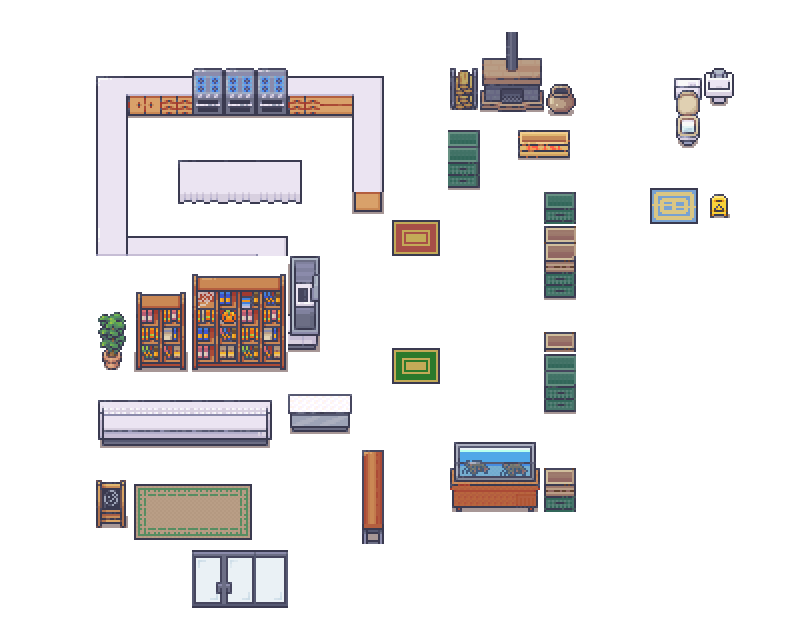
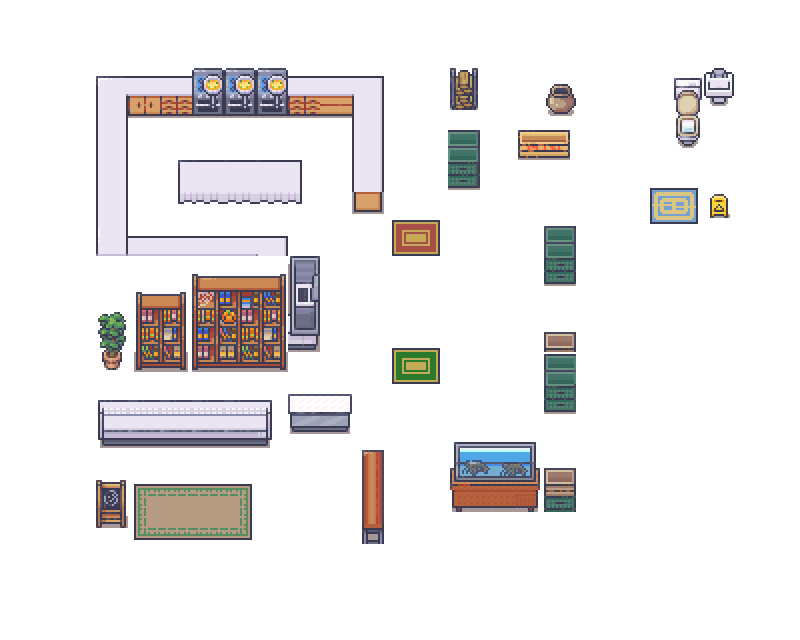
foodsource floating animation, modular for only adding in the tmx!

diff --git a/assets/objects.tsx b/assets/objects.tsx
@@ -1,7 +1,25 @@
 <?xml version="1.0" encoding="UTF-8"?>
-<tileset version="1.10" tiledversion="1.10.2" name="objects" tilewidth="32" tileheight="64" tilecount="1" columns="0">
+<tileset version="1.10" tiledversion="1.10.2" name="objects" tilewidth="96" tileheight="96" tilecount="7" columns="0">
  <grid orientation="orthogonal" width="1" height="1"/>
  <tile id="0" type="stove">
   <image width="32" height="64" source="stations/stove-on.png"/>
+ </tile>
+ <tile id="1" type="chopping_board">
+  <image width="96" height="32" source="stations/chopping_board.png"/>
+ </tile>
+ <tile id="2" type="rice_cooker">
+  <image width="32" height="48" source="stations/rice_cooker.png"/>
+ </tile>
+ <tile id="3" type="food_source_01">
+  <image width="96" height="96" source="stations/fish_tank.png"/>
+ </tile>
+ <tile id="4" type="food_source_02">
+  <image width="32" height="64" source="stations/food_source1.png"/>
+ </tile>
+ <tile id="5" type="food_source_03">
+  <image width="32" height="64" source="stations/food_source2.png"/>
+ </tile>
+ <tile id="6" type="food_source_04">
+  <image width="64" height="64" source="stations/food_source3.png"/>
  </tile>
 </tileset>

diff --git a/core/src/main/java/com/libgdx/undercooked/entities/Entity.java b/core/src/main/java/com/libgdx/undercooked/entities/Entity.java
@@ -7,33 +7,121 @@ import com.badlogic.gdx.maps.tiled.TiledMap;
 import com.badlogic.gdx.utils.Array;
 
 public class Entity {
-
-    private final Array<Stove> stoves;
     private final SpriteBatch batch;
+    private final Array<Stove> stoves;
+    private final Array<ChoppingBoard> chopping_boards;
+    private final Array<RiceCooker> rice_cookers;
+    private final Array<FoodSource> food_sources;
+    float x,y,width,height;
 
     public Entity(TiledMap map, SpriteBatch batch) {
         this.batch = batch;
         stoves = new Array<>();
-        populateStoves(map);
+        chopping_boards = new Array<>();
+        rice_cookers = new Array<>();
+        food_sources = new Array<>();
+
+        renderEntity(map);
     }
     public void render() {
+
+        // call each object added to the array of different stations!
         for (Stove stove : stoves) {
             stove.render();
         }
+        for (ChoppingBoard choppingBoard : chopping_boards) {
+            choppingBoard.render();
+        }
+        for (RiceCooker riceCooker : rice_cookers) {
+            riceCooker.render();
+        }
+        for(FoodSource foodSource: food_sources){
+            foodSource.render();
+        }
     }
 
-    private void populateStoves(TiledMap map) {
+    private void renderEntity(TiledMap map) {
         MapLayer objectLayer = map.getLayers().get("station_layer");
-        // Get the different stations
+
+        // this is for adding the stations to an array of different stations!
+        // it is called in the constructor then to be used in the mapManager
+
         for (MapObject object : objectLayer.getObjects()) {
             if (object.getName().equals("stove")) {
-                float stoveX = object.getProperties().get("x", Float.class);
-                float stoveY = object.getProperties().get("y", Float.class) + 55;
-                float stoveWidth = object.getProperties().get("width", Float.class);
-                float stoveHeight = object.getProperties().get("height", Float.class);
+                 x = object.getProperties().get("x", Float.class);
+                 y = object.getProperties().get("y", Float.class) + 55;
+                 width = object.getProperties().get("width", Float.class);
+                 height = object.getProperties().get("height", Float.class);
 
-                Stove stove = new Stove(stoveX, stoveY, (int) stoveWidth, (int) stoveHeight, batch);
+                Stove stove = new Stove(x, y, (int) width, (int) height, batch);
                 stoves.add(stove); // Add stove to the array
+            }
+            if (object.getName().equals("chopping_board")) {
+                 x = object.getProperties().get("x", Float.class)+70;
+                 y = object.getProperties().get("y", Float.class)+25;
+                 width = object.getProperties().get("width", Float.class);
+                 height = object.getProperties().get("height", Float.class);
+
+                ChoppingBoard choppingBoard = new ChoppingBoard(x, y, (int) width, (int) height, batch);
+                chopping_boards.add(choppingBoard); // Add stove to the array
+            }
+            if (object.getName().equals("rice_cooker")) {
+                x = object.getProperties().get("x", Float.class);
+                y = object.getProperties().get("y", Float.class)+40;
+                width = object.getProperties().get("width", Float.class);
+                height = object.getProperties().get("height", Float.class);
+
+                RiceCooker riceCooker = new RiceCooker(x, y, (int) width, (int) height, batch);
+                rice_cookers.add(riceCooker); // Add stove to the array
+            }
+
+            //--------------------IMPORTANT-----------------------//
+
+            //for the foodsources!!!
+            if (object.getName().equals("onion_source")) {
+                x = object.getProperties().get("x", Float.class);
+                y = object.getProperties().get("y", Float.class)+60;
+                width = object.getProperties().get("width", Float.class);
+                height = object.getProperties().get("height", Float.class);
+
+                FoodSource onion = new FoodSource(x, y, (int) width, (int) height, batch,FoodType.onion);
+                food_sources.add(onion); // Add stove to the array
+            }
+            if (object.getName().equals("meat_source")) {
+                x = object.getProperties().get("x", Float.class)+16;
+                y = object.getProperties().get("y", Float.class)+40;
+                width = object.getProperties().get("width", Float.class);
+                height = object.getProperties().get("height", Float.class);
+
+                FoodSource meat = new FoodSource(x, y, (int) width, (int) height, batch,FoodType.meat);
+                food_sources.add(meat); // Add stove to the array
+            }
+            if (object.getName().equals("fish_tank_source")) {
+                x = object.getProperties().get("x", Float.class)+32;
+                y = object.getProperties().get("y", Float.class)+60;
+                width = object.getProperties().get("width", Float.class);
+                height = object.getProperties().get("height", Float.class);
+
+                FoodSource fish = new FoodSource(x, y, (int) width, (int) height, batch,FoodType.fish);
+                food_sources.add(fish); // Add stove to the array
+            }
+            if (object.getName().equals("tomato_source")) {
+                x = object.getProperties().get("x", Float.class);
+                y = object.getProperties().get("y", Float.class)+60;
+                width = object.getProperties().get("width", Float.class);
+                height = object.getProperties().get("height", Float.class);
+
+                FoodSource tomato = new FoodSource(x, y, (int) width, (int) height, batch,FoodType.tomato);
+                food_sources.add(tomato); // Add stove to the array
+            }
+            if (object.getName().equals("pickle_source")) {
+                x = object.getProperties().get("x", Float.class);
+                y = object.getProperties().get("y", Float.class)+55;
+                width = object.getProperties().get("width", Float.class);
+                height = object.getProperties().get("height", Float.class);
+
+                FoodSource pickle = new FoodSource(x, y, (int) width, (int) height, batch,FoodType.pickle);
+                food_sources.add(pickle); // Add stove to the array
             }
         }
     }

diff --git a/core/src/main/java/com/libgdx/undercooked/entities/FoodSource.java b/core/src/main/java/com/libgdx/undercooked/entities/FoodSource.java
@@ -1,10 +1,45 @@
 package com.libgdx.undercooked.entities;
 
+import com.badlogic.gdx.Gdx;
+import com.badlogic.gdx.graphics.g2d.SpriteBatch;
+import com.badlogic.gdx.graphics.g2d.TextureRegion;
+
 public class FoodSource extends Station {
-    public FoodSource(float x, float y, int width, int height, boolean isStatic, FoodType foodType) {
+
+    private SpriteBatch batch;
+    public FoodSource(float x, float y, int width, int height, SpriteBatch batch, FoodType foodType) {
         super(x, y, width, height);
         containedItem = new FoodItem(foodType);
+        this.batch = batch;
+
+        // different classes different icons!
+        // this else statement is para sa icon name depending on the foodtype!
+        if(foodType.equals(FoodType.tomato)){
+            floatingIconFrames = floating_iconAtlas.findRegions("tomato_icon");
+        }else if(foodType.equals(FoodType.onion)){
+            floatingIconFrames = floating_iconAtlas.findRegions("onion_icon");
+        }else if(foodType.equals(FoodType.meat)){
+            floatingIconFrames = floating_iconAtlas.findRegions("meat_icon");
+        }else if(foodType.equals(FoodType.fish)){
+            floatingIconFrames = floating_iconAtlas.findRegions("fish_icon");
+        }else if(foodType.equals(FoodType.pickle)){
+            floatingIconFrames = floating_iconAtlas.findRegions("pickle_icon");
+        }
+
+    }
+    public void render() {
+        // Update stateTime
+        stateTime += Gdx.graphics.getDeltaTime();
+        TextureRegion currentFrame = floatingIconFrames.get((int) (stateTime / frameDuration) % floatingIconFrames.size);
+        batch.draw(currentFrame, getX(), getY());
     }
     // TODO station to continue
     // when containedItem is taken, generate a new one
+
+    /* TODO :
+        1. to change the type of icon the food source make we need to find it in the region,
+         so just pass the string name of the region for the foodsource to render for!
+        2. foodSource object naming must be different on tiled since per map we need at most 3 foodsource!
+
+    */
 }

diff --git a/core/src/main/java/com/libgdx/undercooked/entities/Station.java b/core/src/main/java/com/libgdx/undercooked/entities/Station.java
@@ -3,6 +3,7 @@ package com.libgdx.undercooked.entities;
 import com.badlogic.gdx.graphics.g2d.TextureAtlas;
 import com.badlogic.gdx.maps.MapLayer;
 import com.badlogic.gdx.maps.tiled.TiledMap;
+import com.badlogic.gdx.utils.Array;
 
 import java.awt.*;
 
@@ -13,6 +14,11 @@ public abstract class Station {
     private float y;
     private int width;
     private int height;
+    protected TextureAtlas floating_iconAtlas;
+    protected float frameDuration;
+    protected float stateTime; // Time elapsed since the start of the animation
+    protected Array<TextureAtlas.AtlasRegion> floatingIconFrames;
+
     // TODO popup (progress bar for non-source stations)
 
     public Station(float x, float y, int width, int height) {
@@ -20,6 +26,12 @@ public abstract class Station {
         this.y = y;
         this.width = width;
         this.height = height;
+
+        // set the main atlas of all floating icons! then share them to different classes!
+        Array<TextureAtlas.AtlasRegion> floatingIconFrames;
+        floating_iconAtlas = new TextureAtlas("assets/floating_icons/float_icons.atlas");
+        frameDuration = 1f; // Set the duration of each frame (adjust as needed)
+        stateTime = 0f; // Initialize stateTime
     }
 
     public float getX() {

diff --git a/core/src/main/java/com/libgdx/undercooked/entities/ChoppingBoard.java b/core/src/main/java/com/libgdx/undercooked/entities/ChoppingBoard.java
@@ -8,14 +8,14 @@ import com.badlogic.gdx.utils.Array;
 
 import java.awt.Rectangle;
 
-public class Stove extends Station {
+public class ChoppingBoard extends Station {
     private SpriteBatch batch;
 
-    public Stove(float x, float y, int width, int height, SpriteBatch batch) {
+    public ChoppingBoard(float x, float y, int width, int height, SpriteBatch batch) {
         super(x, y, width, height);
         this.batch = batch;
         // different classes different icons!
-        floatingIconFrames = floating_iconAtlas.findRegions("clock_icon"); // Assuming "clock_icon" is the name of the animation
+        floatingIconFrames = floating_iconAtlas.findRegions("chop_icon"); // Assuming "clock_icon" is the name of the animation
     }
     public void render() {
         // Update stateTime
@@ -24,5 +24,5 @@ public class Stove extends Station {
         batch.draw(currentFrame, getX(), getY());
     }
 
-    // TODO station to continue needs implementations
+    // TODO station to continue
 }

diff --git a/core/src/main/java/com/libgdx/undercooked/entities/RiceCooker.java b/core/src/main/java/com/libgdx/undercooked/entities/RiceCooker.java
@@ -8,10 +8,10 @@ import com.badlogic.gdx.utils.Array;
 
 import java.awt.Rectangle;
 
-public class Stove extends Station {
+public class RiceCooker extends Station {
     private SpriteBatch batch;
 
-    public Stove(float x, float y, int width, int height, SpriteBatch batch) {
+    public RiceCooker(float x, float y, int width, int height, SpriteBatch batch) {
         super(x, y, width, height);
         this.batch = batch;
         // different classes different icons!
@@ -24,5 +24,5 @@ public class Stove extends Station {
         batch.draw(currentFrame, getX(), getY());
     }
 
-    // TODO station to continue needs implementations
+    // TODO station to continue
 }

diff --git a/core/src/main/java/com/libgdx/undercooked/entities/FoodType.java b/core/src/main/java/com/libgdx/undercooked/entities/FoodType.java
@@ -1,6 +1,9 @@
 package com.libgdx.undercooked.entities;
 
 public enum FoodType {
-    tomato, choppedTomato, tomatoSoup,
-    onion, choppedOnion
+    tomato, chopped_tomato, tomato_soup,
+    onion, chopped_onion,
+    meat, chopped_meat,
+    fish, chopped_fish,
+    pickle, chopped_pickle
 }
